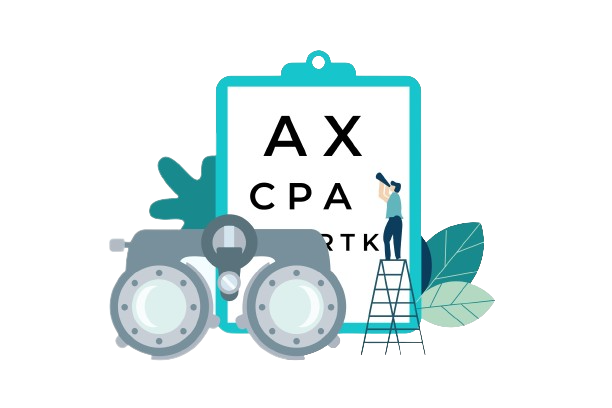
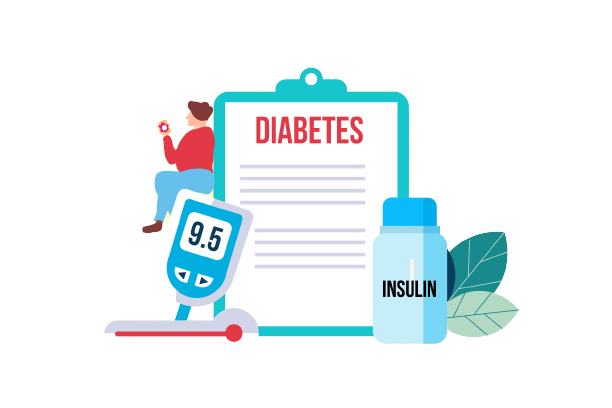
updated

Changed region(s): [[0.1552, 0.1176, 0.8693, 0.8824]]

diff --git a/src/Home.jsx b/src/Home.jsx
@@ -5,7 +5,8 @@ import { useNavigate } from 'react-router-dom';
 import { NavLink } from 'react-router-dom';
 import eye1 from '../src/img/eye1.png';
 import eye2 from '../src/img/eye2.png';
-import naveye from '../src/img/naveye.png'
+import navgg from '../src/img/navgg.png'
+import { FcCameraIdentification } from "react-icons/fc";
 
 
 
@@ -21,6 +22,10 @@ function Home() {
     const about2 = useRef(null);
     const service1 = useRef(null);
     const contact1 = useRef(null);
+
+    const result = ()=>{
+      alert("You have Diabetics")
+    }
 
     const scrollThat=(e)=>{
       window.scrollTo(
@@ -41,7 +46,7 @@ function Home() {
                     <div className="col-10 mx-auto nav-border">
                       <nav className="navbar navbar-expand-lg p-4">
                         <div className="container-fluid ">
-                            <NavLink className="navbar-brand text-white" to="/home"> <img className='img-fluid' src={naveye} alt="" />EYE DOCTOR</NavLink>
+                            <NavLink className="navbar-brand text-white" to="/home"> <img className='img-fluid' src={navgg} alt="" />GLUCO Guard</NavLink>
                             <button className="navbar-toggler bg-white text-color" type="button" data-bs-toggle="collapse" data-bs-target="#navbarSupportedContent" aria-controls="navbarSupportedContent" aria-expanded="false" aria-label="Toggle navigation">
                             <span className="navbar-toggler-icon"></span>
                             </button>
@@ -77,12 +82,12 @@ function Home() {
                 <div className="col-10 mx-auto nav-border">
                   <div className="row p-4 ">
                     <div className="col-md-6 col-10 pt-5 pt-lg-0 order-2 order-lg-1 d-flex flex-column justify-content-center alogn ">
-                      <h1 className='my-3 text-color'><strong>Eye Doctor</strong></h1>
+                      <h1 className='my-3 text-color'><strong>Gluco Guard</strong></h1>
                       <h4 className='my-3 text-white'>
-                        It simplifies the process of dealing with diabetic retinopathy.
+                        It simplifies the process of dealing with diabetic detection for women.
                       </h4>
                       <div className="my-3">
-                        <NavLink onClick={()=>scrollThat(service1)}  className='btn-doc' to="#">Test you eyes</NavLink>
+                        <NavLink onClick={()=>scrollThat(service1)}  className='btn-doc' to="#">Test you Blood</NavLink>
                       </div>
                     </div>
                     <div className="col-md-6 col-10 pt-5 pt-lg-0 order-1 order-lg-2">
@@ -103,10 +108,10 @@ function Home() {
                   <img className='img-fluid animated' src={eye2} alt="#" />
                 </div>
               <div className="col-md-6 col-10 pt-5 pt-lg-0 order-2 order-lg-1 d-flex flex-column justify-content-center">
-              <h2 className='text-color my-3'><strong>About Eye Doctor</strong></h2>
+              <h2 className='text-color my-3'><strong>About Gluco Guard</strong></h2>
               <h3 className='text-white my-3'><strong>It's a website based on <span className='text-color'>machine learning</span></strong></h3>
               <p className="text-white my-3">
-              It detects Diabetic Retinopathy.The "EyeDoctor" simplifies the process of dealing with diabetic retinopathy. In this website people with diabetics and healthcare providers easily upload retinal images.
+              Our machine learning project aims to develop a sophisticated diagnostic tool specifically designed for detecting diabetes in women. By analyzing a comprehensive dataset of female patients, we employ advanced algorithms to identify early indicators and risk factors, ultimately empowering healthcare professionals with a precise and timely screening tool for female diabetes patients.
               </p>
                 </div>
               </div>
@@ -119,17 +124,46 @@ function Home() {
       <div className="container-fluid">
           <div className="row">
             <div className="col-10 mx-auto nav-border">
-            <h3 className='text-color text-center mt-3'>Upload an image to Test your eyes</h3>
+            <h3 className='text-color text-center mt-3'>Fill Those data field to get result</h3>
               <div className="row p-4">
               <div className="col-md-6 col-10 mx-auto">
-                <div className="card p-4">
-                  {/* <img src="..." class="card-img-top" alt="..."/> */}
-                  <div className="card-body text-center">
-                    <h5 className="card-title mb-4">Card title</h5>
-                    <NavLink href="#" className="btn-doc">Upload Image</NavLink>
-                    <h6 className='mt-3'>or drop a file</h6>
+              <form>
+                  <div className="mb-3 text-color">
+                    <label  className="form-label">Pregnancies</label>
+                    <input type="email" className="form-control" id="exampleInputEmail1" aria-describedby="emailHelp"/>
                   </div>
-                </div>
+                  <div className="mb-3 text-color">
+                    <label  className="form-label">Glucose</label>
+                    <input type="password" className="form-control" id="exampleInputPassword1"/>
+                  </div>
+                  <div className="mb-3 text-color">
+                    <label  className="form-label">Blood Pressure</label>
+                    <input type="password" className="form-control" id="exampleInputPassword1"/>
+                  </div>
+                  <div className="mb-3 text-color">
+                    <label  className="form-label">Skin Thickness</label>
+                    <input type="password" className="form-control" id="exampleInputPassword1"/>
+                  </div>
+                  <div className="mb-3 text-color">
+                    <label  className="form-label">Insulin</label>
+                    <input type="password" className="form-control" id="exampleInputPassword1"/>
+                  </div>
+                  <div className="mb-3 text-color">
+                    <label  className="form-label">BMI</label>
+                    <input type="password" className="form-control" id="exampleInputPassword1"/>
+                  </div>
+                  <div className="mb-3 text-color">
+                    <label  className="form-label">Diabeticspedigreefunction</label>
+                    <input type="password" className="form-control" id="exampleInputPassword1"/>
+                  </div>
+                  <div className="mb-3 text-color">
+                    <label  className="form-label">Age</label>
+                    <input type="password" className="form-control" id="exampleInputPassword1"/>
+                  </div>
+                  <div className="mt-3  text-center">
+                  <NavLink onClick={result} type="submit" className="btn-doc">Submit</NavLink>
+                  </div>
+                </form>
               </div>
               </div>
             </div>

diff --git a/src/Loginn.jsx b/src/Loginn.jsx
@@ -1,12 +1,28 @@
-import React, { useState } from 'react'
-import { database } from './Fbconfig';
-import {createUserWithEmailAndPassword, signInWithEmailAndPassword} from 'firebase/auth'
+import React, { useEffect, useState } from 'react'
+import { database ,provider} from './Fbconfig';
+import {GoogleAuthProvider, createUserWithEmailAndPassword, signInWithEmailAndPassword,signInWithPopup} from 'firebase/auth'
 import { useNavigate } from 'react-router-dom';
 import logineye from '../src/img/logineye.png'
+import Home from './Home';
 
 function Loginn() {
+
+  /* Hooks */
+    const [isloggedin,setIsloggedin]= useState(false)
     const [login,setLogin] = useState(false);
     const history = useNavigate()
+
+    const googleSign = ()=>{
+      signInWithPopup(database,provider).then((result)=>{
+        const user = result.user;
+        setIsloggedin(true)
+      }).catch((err)=>{
+        const errorCode = err.code;
+        const errorMessage = err.message;
+        const email = err.customData.email;
+        const credential = GoogleAuthProvider.credentialFromError(err);
+      })
+    }
     const handleSubmit = (e,type)=>{
         e.preventDefault();
         const email = e.target.email.value;
@@ -27,8 +43,7 @@ function Loginn() {
                 alert(err.code)
             })
         }
-        
-       
+
     }
   return (
     <>
@@ -51,6 +66,16 @@ function Loginn() {
                   <div className="text-center mb-4">
                   <button className='btn-doc2'>{login?'sign In':'sign Up'}</button>
                   </div>   
+                  {/* Google sign in */}
+                  <div className="text-center mb-4">
+                  if{!isloggedin && 
+                    <button onClick={googleSign} className='btn-doc2'>Sign In With Google</button>
+                  }else
+                  {isloggedin &&
+                    history('/home')
+                  }
+                  </div> 
+                    
          </form>
             </div>
             <div className="col-md-6 border-color">

diff --git a/src/Style.css b/src/Style.css
@@ -9,7 +9,7 @@
 }
 
 .text-color{
-    color: #18C6CD;
+    color: #BC1623;
 }
 .btn-doc{
     text-decoration: none;
@@ -17,12 +17,12 @@
     height: 50px;
     padding: 15px 20px;
     border-radius: 10px;
-    background-color: #18C6CD;
+    background-color: #BC1623;
     font-weight: 600;
 }
 .btn-doc2{
     border: none;
-    background-color: #18C6CD;
+    background-color: #BC1623;
     color: white;
     padding: 15px 20px;
     border-radius: 10px;
@@ -30,20 +30,20 @@
 }
 .btn-doc2:hover{
     background-color: white;
-    color: #18C6CD;
+    color: #BC1623;
     padding: 15px 20px;
     transition: 0.3s linear;
-    border: 1px solid #18C6CD ;
+    border: 1px solid #BC1623 ;
 }
 .btn-doc:hover{
     text-decoration: none;
-    color: #18C6CD;
+    color: #BC1623;
     height: 50px;;
     border-radius: 10px;
     background-color: white;
     font-weight: 600;
     transition: 0.3s linear;
-    border: 1px solid #18C6CD ;
+    border: 1px solid #BC1623;
 }
 .nav-border{
    /*  border: 1px solid white; */
@@ -85,12 +85,12 @@
 .activeColor{
     padding-top: 5px;
     height: 30px;
-    border: 2px solid #18C6CD;
+    border: 2px solid #BC1623;
     cursor: pointer;
 }
 .pointer{
     cursor: pointer;
 }
 .border-color{
-    border: 1px solid #18C6CD;
+    border: 1px solid #BC1623;
 }

diff --git a/src/Fbconfig.jsx b/src/Fbconfig.jsx
@@ -1,5 +1,5 @@
 import { initializeApp } from "firebase/app";
-import {getAuth} from 'firebase/auth'
+import {getAuth,GoogleAuthProvider} from 'firebase/auth'
 
 const firebaseConfig = {
   apiKey: "AIzaSyD6piAEOSeVjwOlPXYbsfG31HjAXWiFOew",
@@ -13,4 +13,7 @@ const firebaseConfig = {
 
 
 const app = initializeApp(firebaseConfig);
-export const database = getAuth(app);
+const database = getAuth(app);
+const provider = new GoogleAuthProvider();
+export {database,provider};
+
